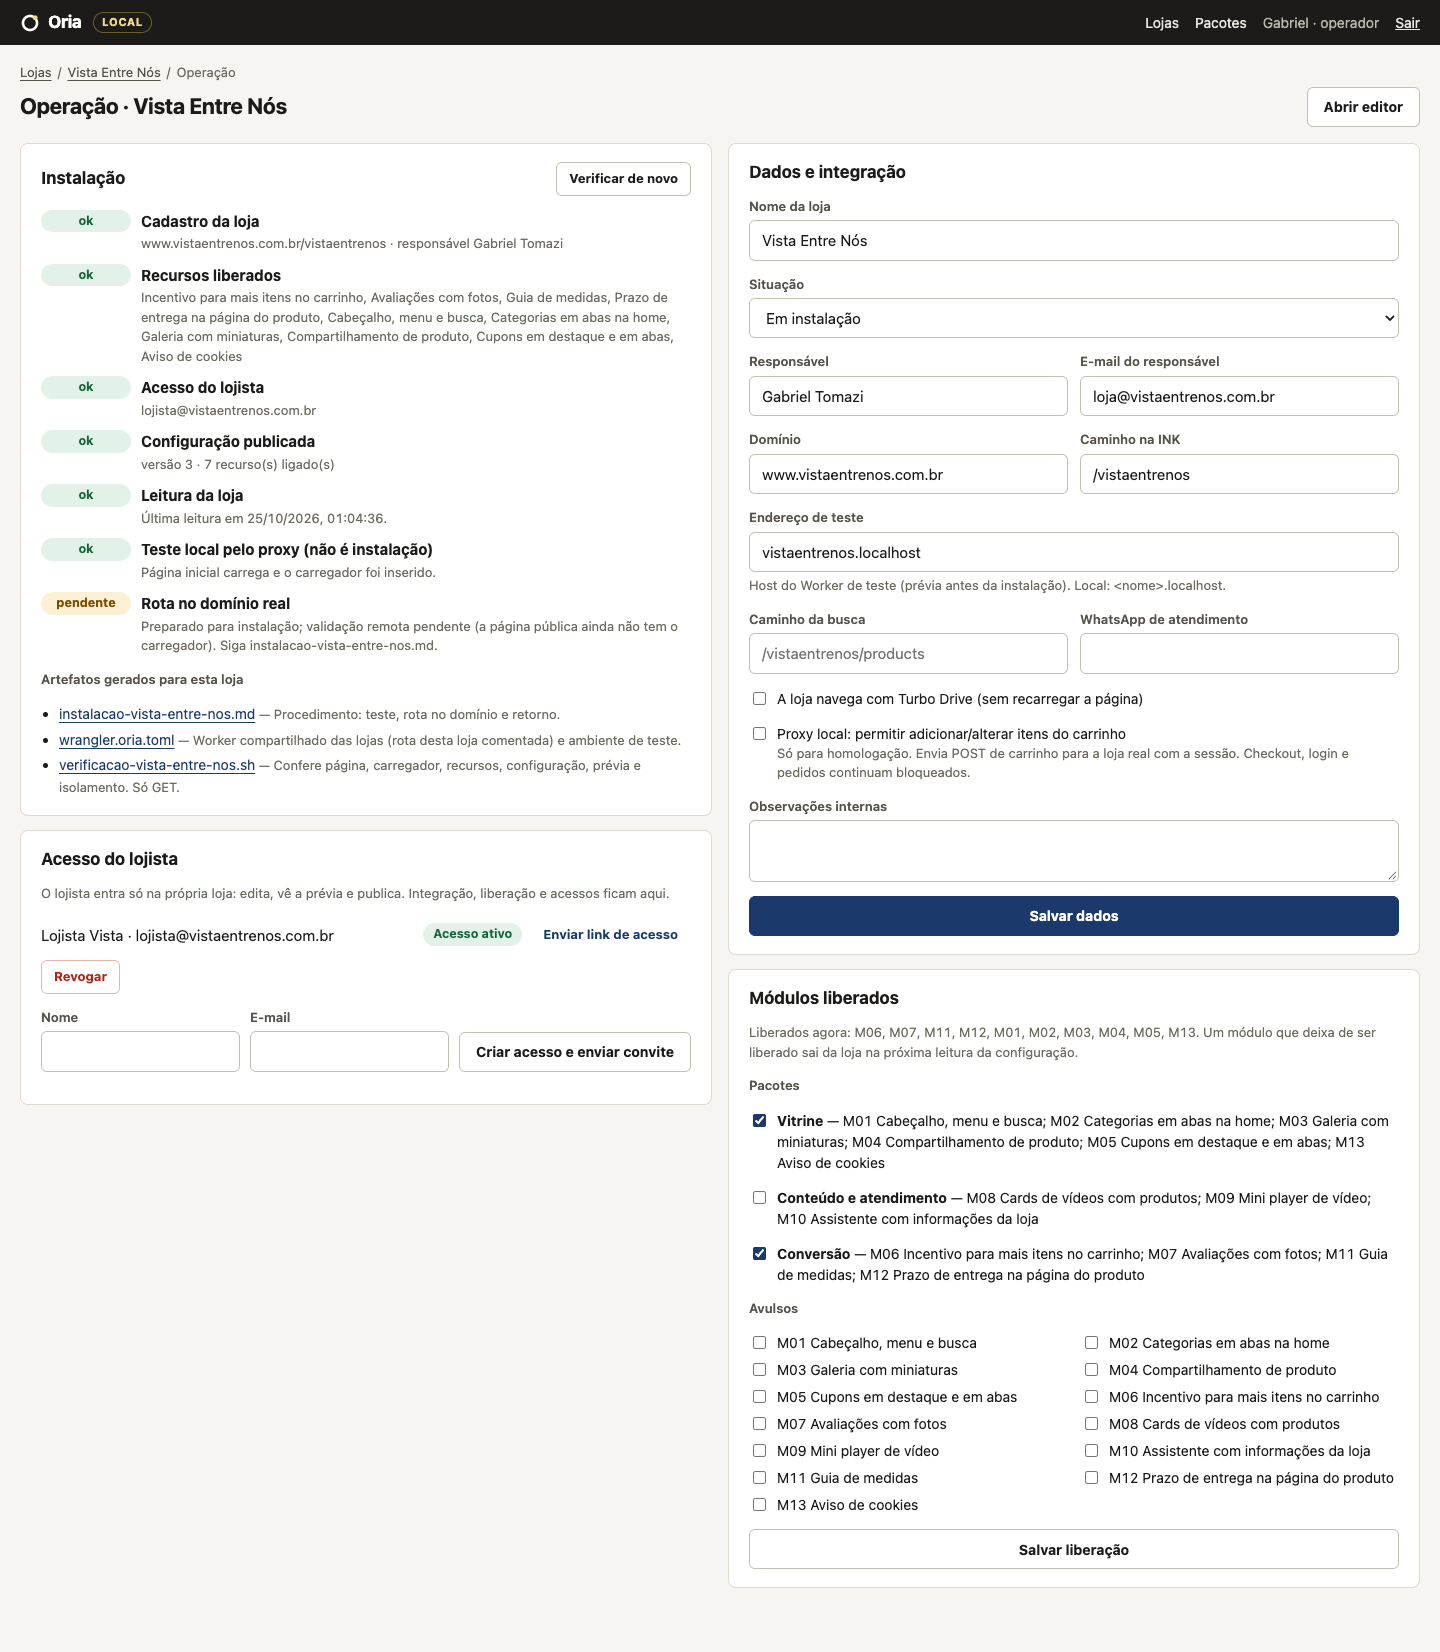
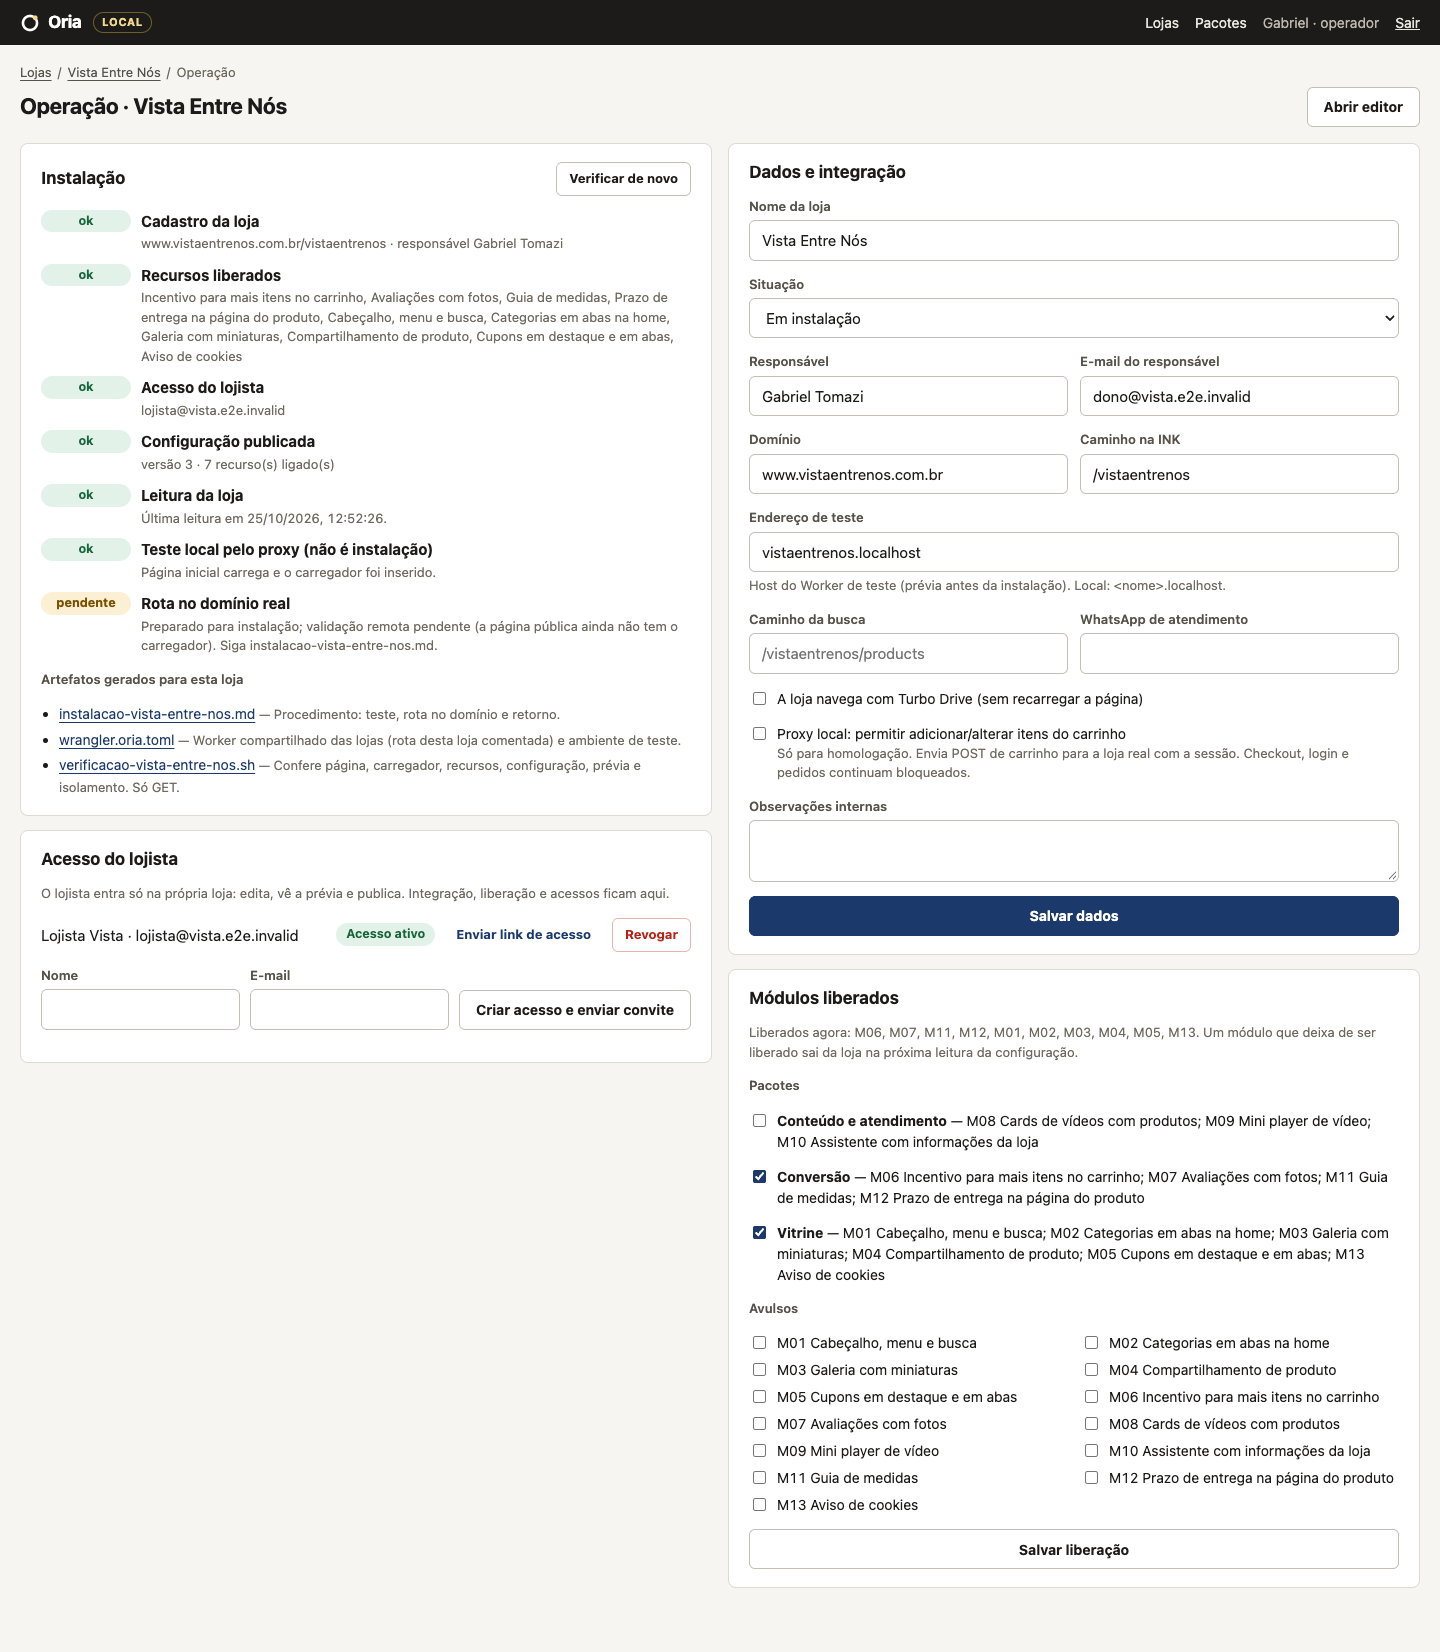
Fechamento da rodada 3: evidências que faltavam e ajustes de operação
- e2e: lista de campanhas (reordenar, trocar de seção/prévia sem perder
  valores, erro abre o item com foco no campo); acessos de teste com e-mail
  .invalid. 34/34.
- Hospedado: TEST_HOST_SUFFIX define o endereço de teste padrão das lojas
  novas (<id>.<sufixo>), para a prévia funcionar antes da instalação.
- Dockerfile sem usuário fixo (permissão no volume do Railway).
- README: M05 da Vista desligado (sem cupom real), check:loja nas três lojas,
  layout clássico medido no Chrome, migração do banco real preservada.

diff --git a/test/hosting.test.ts b/test/hosting.test.ts
@@ -19,8 +19,10 @@ test('configuração hospedada: exige origens https distintas, segredo e credenc
   assert.throws(() => loadConfig({ ORIA_MODE: 'hosted', PANEL_ORIGIN: 'http://painel.exemplo.com', PUBLIC_ORIGIN: 'https://api.exemplo.com', APP_SECRET: Buffer.alloc(32).toString('base64') }), /precisa ser https/);
   assert.throws(() => loadConfig({ ORIA_MODE: 'hosted', PANEL_ORIGIN: 'https://painel.exemplo.com', PUBLIC_ORIGIN: 'https://api.exemplo.com', APP_SECRET: 'abc' }), /32 bytes/);
   assert.throws(() => loadConfig({ ORIA_MODE: 'hosted', PANEL_ORIGIN: 'https://p.exemplo.com', PUBLIC_ORIGIN: 'https://a.exemplo.com', APP_SECRET: Buffer.alloc(32, 1).toString('base64'), MEDIA_BACKEND: 'r2' }), /R2_ACCOUNT_ID.*R2_BUCKET/);
+  assert.throws(() => loadConfig({ ORIA_MODE: 'hosted', PANEL_ORIGIN: 'https://p.exemplo.com', PUBLIC_ORIGIN: 'https://a.exemplo.com', APP_SECRET: Buffer.alloc(32, 1).toString('base64') }), /TEST_HOST_SUFFIX/);
   const hosted = loadConfig({
     ORIA_MODE: 'hosted',
+    TEST_HOST_SUFFIX: '.Teste.Exemplo.com',
     PANEL_ORIGIN: 'https://painel.exemplo.com/',
     PUBLIC_ORIGIN: 'https://api.exemplo.com',
     APP_SECRET: Buffer.alloc(32, 1).toString('base64'),
@@ -31,6 +33,7 @@ test('configuração hospedada: exige origens https distintas, segredo e credenc
   assert.equal(hosted.panelOrigin, 'https://painel.exemplo.com');
   assert.equal(hosted.seedDemo, false, 'sem lojas demo no ambiente hospedado');
   assert.equal(hosted.syncEveryMin, 60);
+  assert.equal(hosted.testHostSuffix, 'teste.exemplo.com');
   assert.equal(testStoreUrl(hosted, { devHost: 'vista.teste.exemplo.com', basePath: '/vistaentrenos' }), 'https://vista.teste.exemplo.com/vistaentrenos');
 });
 
@@ -263,6 +266,7 @@ test('processo hospedado de verdade: sobe com as variáveis de produção, separ
       PANEL_ORIGIN: 'https://painel.exemplo.com',
       PUBLIC_ORIGIN: 'https://api.exemplo.com',
       APP_SECRET: Buffer.alloc(32, 7).toString('base64'),
+      TEST_HOST_SUFFIX: 'teste.exemplo.com',
       OPERATOR_EMAIL: 'op@exemplo.com',
       OPERATOR_PASSWORD: 'senha-do-operador',
       SYNC_EVERY_MIN: '0',
@@ -332,3 +336,19 @@ test('cópia e restauração do banco: VACUUM INTO, integridade, banco anterior 
 function rmSyncSafe(dir: string) {
   void import('node:fs').then(({ rmSync }) => rmSync(dir, { recursive: true, force: true }));
 }
+
+test('hospedado: loja nova recebe o endereço de teste <id>.<TEST_HOST_SUFFIX>; um host, uma loja', async () => {
+  const { VISTA, IDENTITY } = await import('./helpers.ts');
+  const st = stack();
+  try {
+    st.stores.testHostSuffix = 'teste.exemplo.com';
+    const created = st.stores.createStore({ ...VISTA, devHost: '' }, IDENTITY, null);
+    assert.equal(created.devHost, 'vista-entre-nos.teste.exemplo.com');
+    assert.equal(st.stores.byHost('vista-entre-nos.teste.exemplo.com')?.id, created.id);
+    assert.equal(st.stores.byHost('www.vistaentrenos.com.br')?.id, created.id);
+    assert.throws(() => st.stores.createStore({ ...VISTA, id: 'outra', devHost: 'vista-entre-nos.teste.exemplo.com', domain: 'outra.exemplo.com' }, IDENTITY, null), (e: { errors?: { field: string }[] }) => !!e.errors?.some((x) => x.field === 'devHost'));
+    assert.throws(() => st.stores.createStore({ ...VISTA, id: 'copia', devHost: 'copia.teste.exemplo.com' }, IDENTITY, null), (e: { errors?: { field: string }[] }) => !!e.errors?.some((x) => x.field === 'domain'), 'domínio já cadastrado');
+  } finally {
+    st.close();
+  }
+});

diff --git a/src/platform/config.ts b/src/platform/config.ts
@@ -21,6 +21,8 @@ export interface AppConfig {
   /** Endereço de teste das lojas: esquema e porta do Worker de teste (local: http + 8787). */
   testScheme: 'http' | 'https';
   testPort: number | null;
+  /** Sufixo do endereço de teste padrão de uma loja nova: <id>.<sufixo> (local: localhost). */
+  testHostSuffix: string;
   seedDemo: boolean;
   /** Leitura periódica das lojas (minutos; 0 = desligada). */
   syncEveryMin: number;
@@ -87,6 +89,7 @@ export function loadConfig(env: Record<string, string | undefined> = process.env
     publicOrigin: origin('PUBLIC_ORIGIN', `http://127.0.0.1:${publicPort}`),
     testScheme: env.TEST_STORE_SCHEME === 'https' || (mode === 'hosted' && env.TEST_STORE_SCHEME !== 'http') ? 'https' : 'http',
     testPort: env.TEST_STORE_PORT ? Number(env.TEST_STORE_PORT) : mode === 'hosted' ? null : workerPort,
+    testHostSuffix: (env.TEST_HOST_SUFFIX?.trim() || 'localhost').replace(/^\./, '').toLowerCase(),
     seedDemo: env.SEED_DEMO ? env.SEED_DEMO === '1' : mode === 'local',
     syncEveryMin: num('SYNC_EVERY_MIN', mode === 'hosted' ? 60 : 0),
     backupEveryHours: num('BACKUP_EVERY_HOURS', mode === 'hosted' ? 24 : 0),
@@ -95,6 +98,7 @@ export function loadConfig(env: Record<string, string | undefined> = process.env
     secretB64: mode === 'hosted' ? need('APP_SECRET') || null : env.APP_SECRET?.trim() || null,
   };
   if (mode === 'hosted') {
+    if (cfg.testHostSuffix === 'localhost') missing.push('TEST_HOST_SUFFIX (ex.: teste.seudominio.com.br, para o endereço de teste <loja>.teste.seudominio.com.br)');
     if (cfg.panelOrigin && cfg.panelOrigin === cfg.publicOrigin) missing.push('PANEL_ORIGIN e PUBLIC_ORIGIN precisam ser hosts diferentes');
     if (cfg.secretB64 && Buffer.from(cfg.secretB64, 'base64').length < 32) missing.push('APP_SECRET (32 bytes em base64: openssl rand -base64 32)');
   }

diff --git a/src/platform/stores.ts b/src/platform/stores.ts
@@ -108,6 +108,8 @@ function json<T>(s: unknown, fallback: T): T {
 const nowIso = (now: Date) => now.toISOString();
 
 export class StoreService {
+  /** Sufixo do endereço de teste padrão (<id>.<sufixo>); hospedado: o domínio do Worker de teste. */
+  testHostSuffix = 'localhost';
   private db: Db;
   private now: () => Date;
 
@@ -204,7 +206,7 @@ export class StoreService {
       errors.push({ field: 'basePath', message: 'Caminho da loja: algo como /minhaloja (ou vazio se a loja fica na raiz).' });
     }
     const kind = existing?.kind ?? (r.kind === 'demo' ? 'demo' : 'ink');
-    const devHost = (str('devHost') || `${id}.localhost`).toLowerCase();
+    const devHost = (str('devHost') || `${id}.${this.testHostSuffix}`).toLowerCase();
     if (!DEV_HOST.test(devHost)) errors.push({ field: 'devHost', message: 'Endereço de teste: um host, por exemplo minhaloja.localhost.' });
     else {
       const other = this.byDevHost(devHost) ?? this.byDomain(devHost);

diff --git a/src/platform/main.ts b/src/platform/main.ts
@@ -44,6 +44,7 @@ const db = openDb(cfg.dataDir);
 const secret = cfg.secretB64 ? Buffer.from(cfg.secretB64, 'base64') : loadSecret(cfg.dataDir);
 const auth = new Auth(db);
 const stores = new StoreService(db);
+stores.testHostSuffix = cfg.testHostSuffix;
 seed(stores, { demos: cfg.seedDemo });
 const blobs =
   cfg.media.backend === 'r2'

diff --git a/README.md b/README.md
@@ -16,7 +16,7 @@ pacotes, operação hospedada preparada e instalação repetível.
 npm install
 npm run dev            # build + painel/API + serviço público + réplica INK (Node) + Worker local (wrangler)
 OPERATOR_PASSWORD=… npm run demo:setup   # configura as 2 lojas demo pela API do painel (+ --vista para a loja de teste real)
-npm run check          # typecheck + 103 testes
+npm run check          # typecheck + 104 testes
 npm run e2e            # percurso completo no Chrome (pare o dev antes); grava vídeo e capturas
 OPERATOR_PASSWORD=… npm run check:loja -- <id>   # homologação só de leitura de uma loja, pelo proxy
 INK_TOKEN=… npm run check:api -- <slug>          # homologação da API da INK com token real (não é impresso)
@@ -115,7 +115,7 @@ Legenda:
 | M02 Categorias em abas | **A** | Vista: monta na home com 8 produtos reais da coleção, sem erros e sem rolagem lateral. jsdom: troca de aba muda os produtos e o "Ver todos"; atalhos repetidos só somem depois que as abas carregam | Páginas de coleção/listagem da própria loja (cache de 5 min na sessão) |
 | M03 Galeria com miniaturas | **A** | Vista: miniaturas das 17 fotos reais **numa linha que rola de lado** (padrão; opção de grade no painel): no celular desliza com o dedo, no computador tem setas; as pontas esmaecem quando há mais fotos e a miniatura da foto atual entra na área visível ao trocar a foto pela INK. A página não ganha rolagem lateral. jsdom: uma miniatura por foto navegável, clique aciona só o ponto nativo, variante intacta, acompanha a foto ativa | Carrossel nativo da INK |
 | M04 Compartilhamento | **A** | Vista: monta no produto. jsdom: WhatsApp com mensagem e link canônico limpo, copiar link | Canônico da página |
-| M05 Cupons (único, abas, lista) + selo de 1ª compra | **A** | Vista: bloco na home; **no produto, abas compactas logo abaixo do preço, uma por código** (título configurável, ex.: "Quer cupom? Toma!"; texto da campanha, condições recolhidas e "Copiar" → "Copiado"; cabem 3 códigos no celular, mais que isso rolam de lado com esmaecido na borda); selo "10% na 1ª compra" nos cards, com posição escolhida no painel: no topo da foto à esquerda (padrão), no topo da foto à direita ou abaixo do preço (e2e). Opção de manter o bloco grande no produto. "Usar no carrinho" verificado no carrinho real da Vista: preenche o campo de cupom da INK e não envia (a pessoa confirma lá). jsdom: abas, vigência, copiar sem prometer desconto **Rodada 3:** apresentação **compacta** por dispositivo (uma linha: título, código, Copiar; condições, alcance e validade ao abrir), verificada em 360/390 px; lojas existentes mantêm o bloco, lojas novas começam com o compacto no celular. Importação pela API mostra o alcance na parte visível. | Campanhas cadastradas no painel (as mesmas da INK). Opcional: **cupons cadastrados na INK** lidos do frame nativo `product_promotions` do produto (código, regras, faixas progressivas; "Somente primeira compra" vira selo "R$10,00 OFF na 1ª compra"), sem repetir códigos do painel. O frame é `lazy` na INK: o módulo lê o endereço dele direto, sem esperar a rolagem; os cupons do painel aparecem antes. O selo de um cupom da INK fica só no preço do produto principal (o cupom vale para aquele produto), nunca nos cards de outros. Essa leitura é **B**: testada na estrutura nativa (fixture reduzida, códigos fictícios), porque a Vista não tem cupons nativos |
+| M05 Cupons (único, abas, lista) + selo de 1ª compra | **A** | Verificado na Vista com cupons de teste (removidos nesta rodada: a Vista não tem cupom real na INK e o recurso ficou desligado). Na época: bloco na home; **no produto, abas compactas logo abaixo do preço, uma por código** (título configurável, ex.: "Quer cupom? Toma!"; texto da campanha, condições recolhidas e "Copiar" → "Copiado"; cabem 3 códigos no celular, mais que isso rolam de lado com esmaecido na borda); selo "10% na 1ª compra" nos cards, com posição escolhida no painel: no topo da foto à esquerda (padrão), no topo da foto à direita ou abaixo do preço (e2e). Opção de manter o bloco grande no produto. "Usar no carrinho" verificado no carrinho real da Vista: preenche o campo de cupom da INK e não envia (a pessoa confirma lá). jsdom: abas, vigência, copiar sem prometer desconto **Rodada 3:** apresentação **compacta** por dispositivo (uma linha: título, código, Copiar; condições, alcance e validade ao abrir), verificada em 360/390 px; lojas existentes mantêm o bloco, lojas novas começam com o compacto no celular. Importação pela API mostra o alcance na parte visível. | Campanhas cadastradas no painel (as mesmas da INK). Opcional: **cupons cadastrados na INK** lidos do frame nativo `product_promotions` do produto (código, regras, faixas progressivas; "Somente primeira compra" vira selo "R$10,00 OFF na 1ª compra"), sem repetir códigos do painel. O frame é `lazy` na INK: o módulo lê o endereço dele direto, sem esperar a rolagem; os cupons do painel aparecem antes. O selo de um cupom da INK fica só no preço do produto principal (o cupom vale para aquele produto), nunca nos cards de outros. Essa leitura é **B**: testada na estrutura nativa (fixture reduzida, códigos fictícios), porque a Vista não tem cupons nativos |
 | M06 Incentivo no carrinho + confirmação após adicionar | **A** | Vista (proxy com carrinho liberado, item de teste removido no fim): adicionar pela página do produto mostra o incentivo no modal "Produto adicionado" da INK; na gaveta, "Faltam 1 peça…" com 1 item e troca de faixa ao aumentar a quantidade. Marcação real capturada em `test/fixtures/ink/cart-drawer-com-item.html` e `last-added-product.html` (tokens removidos). jsdom: faixas, frete nativo com prioridade, participação por coleção pelo id do produto | Gaveta `turbo-frame#cart` e modal `#last_added_product` da INK. A INK **substitui** o `#last_added_product` a cada adição (o módulo refaz a observação). O item do carrinho não tem link do produto: a participação por coleção usa o id |
 | M07 Avaliações com fotos | **B** | Parser e módulo sobre a marcação real da INK (avaliações da Use Origens, só nos testes). A foto abre o depoimento de origem. Sem nota geral. **Nota mínima** (padrão 4★; avaliação 2★ some da vitrine, aparece com "todas") e "só com texto" nas recentes. Loja sem avaliações não mostra nada | `/reviews` da própria loja. **A Vista ainda não tem avaliações** |
 | M08 Cards de vídeo | **B** | Painel no Chrome: envio de arquivo de vídeo, vínculo no M08, publicação e card novo na loja. Réplica e jsdom: cards no início, vídeos vinculados na página do produto, player sem som automático com a peça (nome e preço da página real) | Biblioteca de vídeos da loja (envio de arquivo ou https; servido com Range) |
@@ -150,7 +150,7 @@ A Vista usa o layout novo da INK; outras lojas usam o clássico. Os módulos for
 
 ## Verificações executadas
 
-- **`npm run check`** (103 testes) cobre:
+- **`npm run check`** (104 testes) cobre:
   - registro e esquema;
   - lojas: isolamento A/B, publicação, liga/desliga só do módulo, restauração, liberação e pausa;
   - acesso por cliente em todas as rotas de loja, CSRF, Host, Origin e convites;
@@ -166,11 +166,12 @@ A Vista usa o layout novo da INK; outras lojas usam o clássico. Os módulos for
     artefatos de instalação e `wrangler deploy --dry-run`, configuração guiada (origem, "editado por você",
     confirmação de alcance, só recurso pronto), importação que não amplia alcance, cupom compacto, atalhos da ajuda
     no assistente.
-- **`npm run e2e`** (33 verificações, Chrome):
+- **`npm run e2e`** (34 verificações, Chrome):
   - operador cria a Vista pelo painel e gera o convite;
   - lojista aceita o convite, começa pela **configuração guiada** (leitura da loja real, conteúdo com origem,
     conjuntos de recursos, conferência) e conclui depois de publicar;
   - lojista vê os nomes dos recursos, sem códigos; configura M05, M02, M03 e M12 pelos formulários;
+  - lista de campanhas: reordenar, trocar de seção e de prévia sem perder valores, erro abre o item com foco no campo;
   - a prévia ao vivo esconde o módulo desativado no rascunho;
   - salvar, publicar e conferir na loja real pelo proxy;
   - CEP real da INK;
@@ -180,7 +181,12 @@ A Vista usa o layout novo da INK; outras lojas usam o clássico. Os módulos for
   - assistente: "tem estampa de mãe?" traz peças e a coleção Mães;
   - instalação, painel no celular, demos, sem erros de JavaScript dos módulos.
   - Vídeos em `docs/demo/`, capturas em `docs/capturas/r2-*` e `r3-*` (configuração guiada pela visão do lojista).
-- **`check:loja`**: em computador e celular, módulos montados, sem erros, sem rolagem horizontal e, no celular, **botões flutuantes sem cobrir a barra de compra, o aviso de cookies nem a ajuda da INK**. Vista: 18 de 18 (com carrinho, assistente e cabeçalho ligados).
+- **`check:loja`**: em computador e celular, módulos montados, sem erros, sem rolagem horizontal e, no celular, **botões flutuantes sem cobrir a barra de compra, o aviso de cookies nem a ajuda da INK**. Vista, Aurora e Trilha: 18 de 18 cada (rodada 3, com o aviso de cookies, o atendimento único e o cupom compacto).
+- **Layout clássico da INK** (rodada 3, Chrome sobre páginas gravadas de duas lojas de referência, só leitura): logo
+  sem cobrir a busca nem os controles e sem vazar do cabeçalho em 360, 390 e 1440 px, com a busca recolhida e em
+  barra, para logos quadrado, horizontal, vertical e o atual.
+- **Migração** (rodada 3): o banco real de antes da rodada migrado com o código atual preserva lojas, acessos, as 18
+  versões, rascunhos, mídia e integração.
 
 **Carregamento:**
 - O carregador tem 10 KB; cada módulo é um arquivo próprio, baixado só onde roda.

diff --git a/docs/operacao/hospedagem.md b/docs/operacao/hospedagem.md
@@ -7,7 +7,9 @@ Decisão de arquitetura: [`docs/decisoes/0001-hospedagem.md`](../decisoes/0001-h
 
 1. Novo serviço a partir do repositório (usa `Dockerfile` e `railway.json`; instância única).
 2. **Volume** montado em `/data`.
-3. Variáveis: ver `.env.example` (`PANEL_ORIGIN`, `PUBLIC_ORIGIN`, `APP_SECRET`, R2, Resend, operador).
+3. Variáveis: ver `.env.example` (`PANEL_ORIGIN`, `PUBLIC_ORIGIN`, `APP_SECRET`, `TEST_HOST_SUFFIX`, R2, Resend, operador).
+   A imagem roda sem usuário fixo para poder gravar no volume (a doc do Railway avisa que imagens não-root
+   têm problema de permissão; alternativa documentada: `RAILWAY_RUN_UID=0`).
 4. Dois domínios apontando para o mesmo serviço: o do painel e o do serviço público. O processo
    separa pelo host; qualquer outro host recebe só o serviço público.
 5. Conferir `GET https://<painel>/health` e `GET https://<serviço>/health` → `{"ok":true}`.
@@ -29,8 +31,9 @@ uma rota `<domínio>/*` por loja instalada, e o ambiente `teste`), `instalacao-<
 `verificacao-<loja>.sh`. Validado localmente com `wrangler deploy --dry-run` (teste automatizado).
 
 - **Teste** (sem mexer no DNS da loja): `npx wrangler deploy -c wrangler.oria.toml --env teste`. Cada loja
-  usa o seu endereço de teste (Operação → Endereço de teste), ex. `vista.teste.<seu-domínio>` com a rota
-  curinga do ambiente `teste`; ou o `oria-lojas-teste.<conta>.workers.dev`, que atende **uma loja por vez**.
+  usa o seu endereço de teste (Operação → Endereço de teste). Lojas novas já nascem com `<loja>.<TEST_HOST_SUFFIX>`
+  (ex. `vista-entre-nos.teste.seudominio.com.br`), atendido pela rota curinga `*.<TEST_HOST_SUFFIX>/*` do ambiente
+  `teste` — a prévia da configuração guiada funciona por aí antes da instalação no domínio; ou o `oria-lojas-teste.<conta>.workers.dev`, que atende **uma loja por vez**.
 - **Domínio real**: a zona da loja na Cloudflare com o registro da INK em proxy; descomentar a rota da
   loja e `npx wrangler deploy -c wrangler.oria.toml`. Ordem segura e retorno no `instalacao-<loja>.md`.
 - `bash verificacao-<loja>.sh <endereço>` confere carregador, arquivos de recurso, configuração da loja
